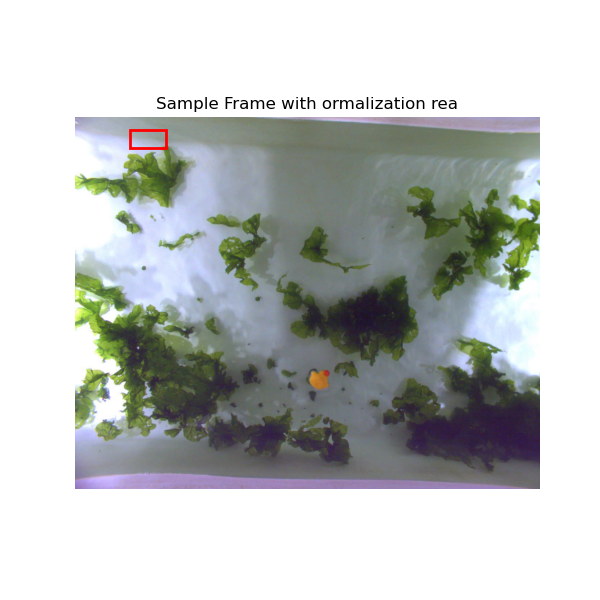
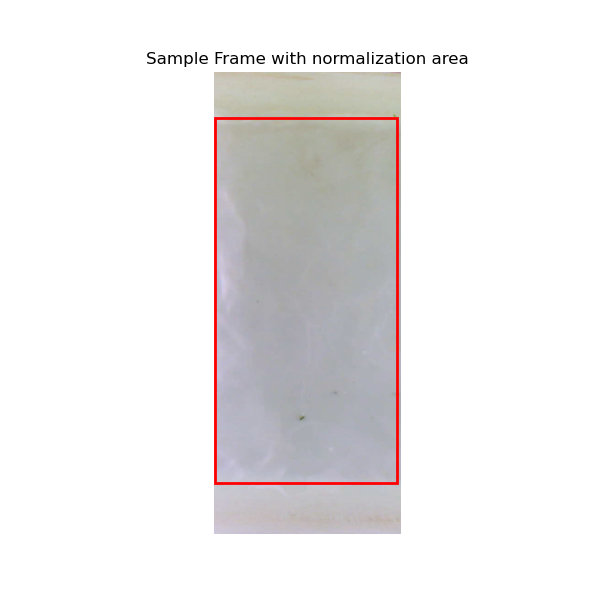
Update video_clipping function from n_frames to seconds_interval

diff --git a/src/video_clipping.py b/src/video_clipping.py
@@ -156,11 +156,11 @@ def get_master_stats(
             pixels_list[i].extend(area[:, :, i].flatten())
 
         frame_idx += 1
-        
-        sample_frame = frame.copy()
+        if frame_idx > 10:
+            sample_frame = clipped_frame.copy()
+            break
 
     cap.release()
-
 
     # Convert lists to NumPy arrays
     pixels_array = [np.array(channel) for channel in pixels_list]
@@ -185,7 +185,7 @@ def get_master_stats(
         linewidth=2, edgecolor='r', facecolor='none'
     )
     plt.gca().add_patch(rect)
-    plt.title(f"Sample Frame with ormalization rea")
+    plt.title(f"Sample Frame with normalization area")
     plt.axis('off')
     plt.savefig('doc/video_normalization.png')
     plt.close()
@@ -223,6 +223,23 @@ def normalize_frame(
         )
 
     return np.clip(frame, 0, 255).astype(np.uint8)
+
+def normalize_clipped_frame(clipped_frame, master_mean, master_std):
+    """
+    Normalize a clipped frame to match the master's mean and std.
+    Assumes the clipped frame should match the master's overall distribution.
+    """
+    for i in range(3):  # For each channel (B, G, R)
+        current_mean = np.mean(clipped_frame[:, :, i])
+        current_std = np.std(clipped_frame[:, :, i])
+
+        # Avoid division by zero
+        if current_std > 0:
+            clipped_frame[:, :, i] = (
+                ((clipped_frame[:, :, i] - current_mean) * (master_std[i] / current_std))
+                + master_mean[i]
+            )
+    return np.clip(clipped_frame, 0, 255).astype(np.uint8)
 
 def verify_normalization(
     original_frame: np.ndarray,
@@ -357,7 +374,7 @@ def process_video_to_frames(
 
 def process_video_n_frames(
     input_path: str,
-    n_frames: int = 175,
+    seconds_interval: float = 8.0, # Default of 8.0 seconds; roughly 175 frames at 21FPS
     keep_ranges: list = None,
     roi: tuple = None,
     normalize: bool = False,
@@ -368,7 +385,7 @@ def process_video_n_frames(
 ) -> None:
     """
     Process a video file:
-    - Saves 1 frame every `n_frames` frames.
+    - Saves a frame every for every 'seconds_interval' input.
     - Removes specified frame ranges.
     - Splits the result into parts based on the keep ranges.
     - Optionally normalizes frames to match a master's color distribution.
@@ -376,7 +393,7 @@ def process_video_n_frames(
 
     Args:
         input_path (str): Path to the input .avi file.
-        n_frames (int): Save a frame every `n_frames` frames (default: 175).
+        seconds_interval (float): Save a frame every `seconds_interval` seconds (default: 5.0).
         keep_ranges (list): List of frame ranges to keep (e.g., [(104, 2450), (2551, 4919), (5001, None)]).
         roi (tuple): Target ROI dimensions as (width, height).
         normalize (bool): If True, normalize frames using master_mean and master_std (default: False).
@@ -403,6 +420,9 @@ def process_video_n_frames(
     total_frames = int(cap.get(cv2.CAP_PROP_FRAME_COUNT))
     print(f"[INFO] Total of {total_frames:,} frames found in {input_path}")
 
+    # Calculate how many frames to skip on the desired interval in seconds
+    frame_skip = int(fps * seconds_interval)
+    
     # Create output directories
     base_name = os.path.splitext(os.path.basename(input_path))[0]
     trial_dirs = [os.path.join(output_dir, f"{base_name}_trial{i+1}") for i in range(len(keep_ranges))]
@@ -433,8 +453,8 @@ def process_video_n_frames(
             frame_count += 1
             continue
 
-        # Save a frame every `n_frames` frames
-        if frame_count % n_frames == 0:
+        # Save a frame based on the time interval
+        if frame_count % frame_skip == 0:
             # Calculate dynamic ROI for this frame, so it is horizontally centered
             roi_x, roi_y, roi_width, roi_height = calculate_dynamic_roi(frame, roi_width, roi_height)
 
@@ -445,14 +465,16 @@ def process_video_n_frames(
             # verify_roi(frame, roi) # For debugging
 
             if normalize:
-                normalized_frame = normalize_frame(
-                    clipped_frame.copy(), # BGR
-                    master_mean,
-                    master_std,
-                    normalization_area,
-                )
+                # normalized_frame = normalize_frame(
+                #     clipped_frame.copy(), # BGR
+                #     master_mean,
+                #     master_std,
+                #     normalization_area,
+                # )
 
-                verify_normalization(clipped_frame.copy(), normalized_frame, normalization_area)
+                normalized_frame = normalize_clipped_frame(clipped_frame.copy(), master_mean, master_std)
+
+                # verify_normalization(clipped_frame.copy(), normalized_frame, normalization_area)
                 clipped_frame = normalized_frame # Overwrite to keep existing code functional without normalization
 
             # Save the clipped frame
@@ -483,14 +505,15 @@ video_configs = {
 roi_width, roi_height = find_smallest_roi(video_configs)
 
 # Get normalization statistics for colour correction
-normalization_area = (150, 35, 100, 50)
-master_mean, master_std = get_master_stats(r"data/Ducks/Ulva_05_1.avi", roi_width, roi_height, normalization_area)
+# normalization_area = (150, 35, 100, 50) # Small square in center-top of the image
+normalization_area = (0, 100, 400, 800) # Main ROI covering 95% of entire frame (except sides)
+master_mean, master_std = get_master_stats(r"data/Ducks/Duck1.avi", roi_width, roi_height, normalization_area)
 
 # Split video into individual trials
 for input_video, keep_ranges in video_configs.items():
     print(f"[INFO] Processing {input_video} with keep ranges: {keep_ranges}")
     process_video_n_frames(input_video, 
-                           n_frames=175, 
+                           seconds_interval=8.0, #n_frames=175, 
                            keep_ranges=keep_ranges, 
                            roi=(roi_width, roi_height),
                            normalize=True,

diff --git a/src/data_utils.py b/src/data_utils.py
@@ -99,7 +99,7 @@ def create_luminance_prompts(frame, existing_masks=None, num_prompts=5, luminanc
         labels = [[1] for _ in range(len(points))]
 
         # Visualize steps used to create point prompts
-        visualize_luminance_prompts(frame, g, dark_regions, points, luminance_percentile)
+        # visualize_luminance_prompts(frame, g, dark_regions, points, luminance_percentile)
 
         return points, labels
     else:
